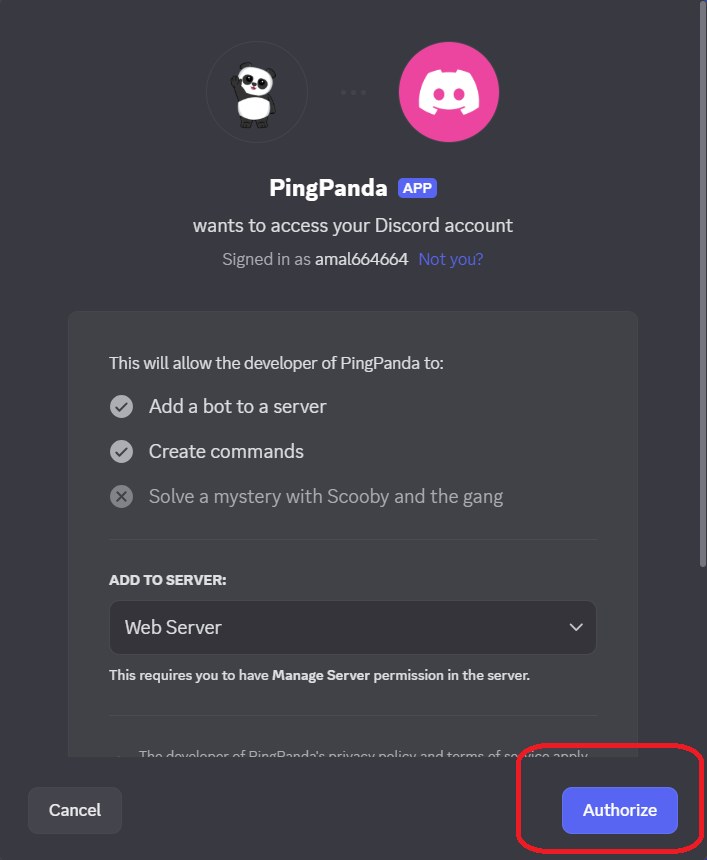
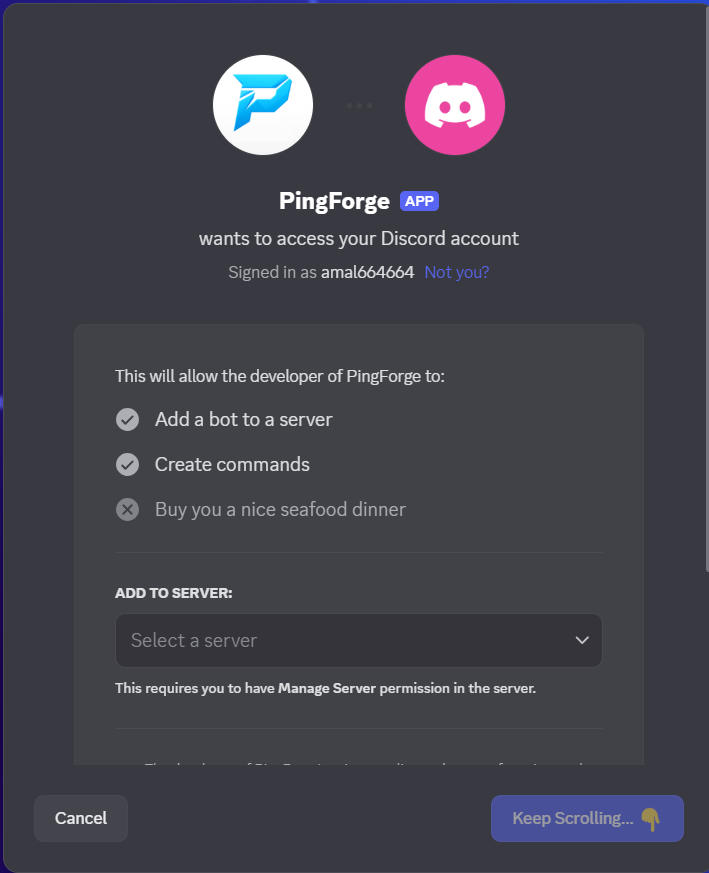
Name change

diff --git a/src/app/(landing)/page.tsx b/src/app/(landing)/page.tsx
@@ -30,7 +30,7 @@ const Page = () => {
                             </Heading>
                         </div>
                         <p className="text-base/7 text-gray-600 max-w-prose text-center text-pretty">
-                            Ping Panda is the easiest way to monitor your SaaS.
+                            Ping Forge is the easiest way to monitor your SaaS.
                             Get instant notifications for{" "}
                             <span className="font-semibold text-gray-700">
                                 sales, new users, or any other event
@@ -73,9 +73,9 @@ const Page = () => {
                             <MockDiscordUi>
                                 <AnimatedList>
                                     <DiscordMessage
-                                        avatarAlt="Ping Panda Avatar"
-                                        avatarSrc="/brand-asset-profile-picture.png"
-                                        userName="Ping Panda"
+                                        avatarAlt="Ping Forge Avatar"
+                                        avatarSrc="/brand-logo.png"
+                                        userName="Ping Forge"
                                         timeStamp="Today at 10:52PM"
                                         badgeText="Revenue"
                                         badgeColor="#faa61a"
@@ -87,9 +87,9 @@ const Page = () => {
                                         }}
                                     />
                                     <DiscordMessage
-                                        avatarAlt="Ping Panda Avatar"
-                                        avatarSrc="/brand-asset-profile-picture.png"
-                                        userName="Ping Panda"
+                                        avatarAlt="Ping Forge Avatar"
+                                        avatarSrc="/brand-logo.png"
+                                        userName="Ping Forge"
                                         timeStamp="Today at 12:06PM"
                                         badgeText="Milestone"
                                         badgeColor="#5865f2"
@@ -100,9 +100,9 @@ const Page = () => {
                                         }}
                                     />
                                     <DiscordMessage
-                                        avatarAlt="Ping Panda Avatar"
-                                        avatarSrc="/brand-asset-profile-picture.png"
-                                        userName="Ping Panda"
+                                        avatarAlt="Ping Forge Avatar"
+                                        avatarSrc="/brand-logo.png"
+                                        userName="Ping Forge"
                                         timeStamp="Today at 12:35PM"
                                         badgeText="SignUp"
                                         badgeColor="#43b581"
@@ -169,7 +169,7 @@ const Page = () => {
                                     </p>
                                     <p className="mt-2 max-w-lg text-sm/6 text-gray-600 max-lg:text-center">
                                         From new user signups to successful
-                                        payments, PingPanda notifies you for all
+                                        payments, PingForge notifies you for all
                                         critical events in your SaaS.
                                     </p>
                                 </div>
@@ -226,7 +226,7 @@ const Page = () => {
                                         Easy Integration
                                     </p>
                                     <p className="mt-2 max-w-lg text-sm/6 text-gray-600 max-lg:text-center">
-                                        Connect PingPanda with your existing
+                                        Connect PingForge with your existing
                                         workflows in minutes and call our
                                         intuitive logging API from any language.
                                     </p>
@@ -237,7 +237,7 @@ const Page = () => {
                                         <div className="flex bg-gray-800/40 ring-1 ring-white/5">
                                             <div className="-mb-px flex text-sm/6 font-medium text-gray-400">
                                                 <div className="border-b border-r border-b-white/20 border-r-white/10 bg-white/5 px-4 py-2 text-white">
-                                                    pingpanda.js
+                                                    pingForge.js
                                                 </div>
                                             </div>
                                         </div>
@@ -307,7 +307,7 @@ const Page = () => {
                                 <Star className="size-5 text-brand-600 fill-brand-600" />
                             </div>
                             <p className="text-base sm:text-lg lg:text-lg/8 font-medium tracking-tight text-brand-950 text-center lg:text-left text-pretty">
-                                PingPanda has been a game-changer for me. I've
+                                PingForge has been a game-changer for me. I've
                                 been using it for two months now and seeing
                                 sales pop up in real-time is super satisfying.
                             </p>
@@ -341,7 +341,7 @@ const Page = () => {
                                 <Star className="size-5 text-brand-600 fill-brand-600" />
                             </div>
                             <p className="text-base sm:text-lg lg:text-lg/8 font-medium tracking-tight text-brand-950 text-center lg:text-left text-pretty">
-                                PingPanda's been paying off for our SaaS. Nice
+                                PingForge's been paying off for our SaaS. Nice
                                 to have simple way to see how we're doing
                                 day-to-day. Definitely makes our lives easier.
                             </p>

diff --git a/src/components/MockDiscordUi.tsx b/src/components/MockDiscordUi.tsx
@@ -70,13 +70,13 @@ const MockDiscordUi = ({ children }: PropsWithChildren) => {
                         </h3>
                         <div className="flex items-center px-2 py-1.5 rounded bg-[#393c43] text-white cursor-pointer">
                             <Image
-                                src="/brand-asset-profile-picture.png"
-                                alt="Ping Panda avatar"
+                                src="/brand-logo.png"
+                                alt="Ping Forge avatar"
                                 width={32}
                                 height={32}
                                 className="object-cover rounded-full mr-3"
                             />
-                            <span className="font-medium">Ping Panda</span>
+                            <span className="font-medium">PingForge</span>
                         </div>
                         <div className="my-1 space-y-px">
                             {[...Array(4)].map((_, i) => (
@@ -121,8 +121,8 @@ const MockDiscordUi = ({ children }: PropsWithChildren) => {
                     <div className="flex items-center ">
                         <div className="relative">
                             <Image
-                                src="/brand-asset-profile-picture.png"
-                                alt="Ping Panda avatar"
+                                src="/brand-logo.png"
+                                alt="PingForge avatar"
                                 width={40}
                                 height={40}
                                 className="object-cover rounded-full mr-3"
@@ -130,7 +130,7 @@ const MockDiscordUi = ({ children }: PropsWithChildren) => {
                             <div className="absolute bottom-0 right-3 size-3 bg-green-500 rounded-full border-2 border-[#36393f]" />
                         </div>
 
-                        <p className="font-semibold text-white">Ping Panda</p>
+                        <p className="font-semibold text-white">PingForge</p>
                     </div>
 
                     <div className="ml-auto flex items-center space-x-4 text-[#b9bbbe] ">
@@ -157,7 +157,7 @@ const MockDiscordUi = ({ children }: PropsWithChildren) => {
                         <input
                             type="text"
                             readOnly
-                            placeholder="Message @Ping Panda"
+                            placeholder="Message @PingForge"
                             className="flex-1 bg-transparent py-2.5 px-1 text-white placeholder-[#72767d] focus:outline-none cursor-not-allowed"
                         />
                         <div className="flex items-center space-x-3 mx-3 text-[#b9bbbe]">

diff --git a/src/app/dashboard/layout.tsx b/src/app/dashboard/layout.tsx
@@ -70,7 +70,7 @@ const Sidebar = ({ onClose }: { onClose?: () => void }) => {
         <div className="space-y-4 md:space-y-6 relative z-20 flex flex-col h-full">
             {/* logo */}
             <p className="hidden sm:block text-lg/7 font-semibold text-brand-900">
-                Ping<span className="text-brand-700">Panda</span>
+                Ping<span className="text-brand-700">Forge</span>
             </p>
 
             {/* navigation items */}
@@ -134,7 +134,7 @@ const Layout = ({ children }: PropsWithChildren) => {
                 {/* mobile header */}
                 <div className="md:hidden flex items-center justify-between p-4 border-b border-gray-200">
                     <p className="text-lg/7 font-semibold text-brand-900">
-                        Ping<span className="text-brand-700">Panda</span>
+                        Ping<span className="text-brand-700">Forge</span>
                     </p>
                     <button
                         onClick={() => setIsDrawerOpen(true)}
@@ -160,7 +160,7 @@ const Layout = ({ children }: PropsWithChildren) => {
                 >
                     <div className="flex justify-between items-center mb-4">
                         <p className="text-lg/7 font-semibold text-brand-900">
-                            Ping<span className="text-brand-700">Panda</span>
+                            Ping<span className="text-brand-700">Forge</span>
                         </p>
                         <button
                             aria-label="Close modal"

diff --git a/src/app/(landing)/pricing/page.tsx b/src/app/(landing)/pricing/page.tsx
@@ -42,7 +42,7 @@ const Page = () => {
                     </Heading>
                     <p className="mt-6 text-base/7 text-gray-600 max-w-prose text-center text-pretty">
                         We hate subscriptions. And chances are, you do too.
-                        That's why we offer lifetime access to PingPanda for a
+                        That's why we offer lifetime access to PingForge for a
                         one-time payment.
                     </p>
                 </div>
@@ -54,7 +54,7 @@ const Page = () => {
                         </h3>
 
                         <p className="mt-6 text-base/7 text-gray-600">
-                            Invest once in PingPanda and transform how you
+                            Invest once in PingForge and transform how you
                             monitor your SaaS forever. Get instant alerts, track
                             critical metrics and never miss a beat in your
                             business growth.
@@ -95,7 +95,7 @@ const Page = () => {
                                     onClick={handleGetAccess}
                                     className="mt-6 px-20"
                                 >
-                                    Get PingPanda
+                                    Get PingForge
                                 </Button>
                                 <p className="mt-6 text-xs leading-5 text-gray-600">
                                     Secure payment. Start monitoring in minutes.

diff --git a/src/app/dashboard/(settings)/account-settings/SettingsPageContent.tsx b/src/app/dashboard/(settings)/account-settings/SettingsPageContent.tsx
@@ -32,13 +32,13 @@ const AccountSettings = ({
                     setShowModal={setShowTip}
                 >
                     <h2 className="text-xl/8 font-medium tracking-tight text-gray-900">
-                        Ping<span className="text-blue-700">Panda</span>
+                        Ping<span className="text-blue-700">Forge</span>
                     </h2>
                     <div className="flex justify-center items-start gap-6">
                         <Info className="size-10 mt-2" />{" "}
                         <p className="text-sm/6 text-gray-600 max-w-prose mt-2 mb-8">
                             Discord notifications can be only received after
-                            adding our Ping Panda App to one of your own server
+                            adding our PingForge App to one of your own server
                             or by joining our server
                         </p>
                     </div>
@@ -98,7 +98,7 @@ const AccountSettings = ({
                                         target="_blank"
                                         href="https://discord.com/oauth2/authorize?client_id=1381237286859051079&permissions=0&integration_type=0&scope=bot"
                                     >
-                                        Add Ping Panda App
+                                        Add PingForge App
                                     </Link>
                                 </Button>
                             </div>

diff --git a/src/app/dashboard/(help)/api-doc/ApiDocs.tsx b/src/app/dashboard/(help)/api-doc/ApiDocs.tsx
@@ -300,7 +300,7 @@ const ApiDocs = () => {
                 <p className="text-xs/6 text-brand-700">
                     <Link
                         target="_blank"
-                        href="https://support.discord.com/hc/en-us/articles/210298617-Markdown-Text-101-Chat-Formatting-Bold-Italic-Underline?utm_source=pingpanda.com"
+                        href="https://support.discord.com/hc/en-us/articles/210298617-Markdown-Text-101-Chat-Formatting-Bold-Italic-Underline?utm_source=pingforge.com"
                     >
                         Visit Discord page for more knowledge
                     </Link>

diff --git a/src/app/dashboard/(account)/upgrade/UpgradePageContent.tsx b/src/app/dashboard/(account)/upgrade/UpgradePageContent.tsx
@@ -34,7 +34,7 @@ const UpgradePageContent = ({ plan }: { plan: Plan }) => {
                 </h1>
                 <p className="text-sm/6 text-gray-600 max-w-prose">
                     {plan === "PRO"
-                        ? "Thank you for your supporting PingPanda. Find your increased usage limits below."
+                        ? "Thank you for your supporting PingForge. Find your increased usage limits below."
                         : "Get access to more events, categories and premium support."}
                 </p>
             </div>

diff --git a/src/components/PaymentSuccessModal.tsx b/src/components/PaymentSuccessModal.tsx
@@ -64,7 +64,7 @@ const PaymentSuccessModal = () => {
                             </p>
                             <p className="text-gray-600 text-sm/6 text-pretty">
                                 Thank you for upgrading to Pro and supporting
-                                PingPanda. Your account has been upgraded.
+                                PingForge. Your account has been upgraded.
                             </p>
                         </div>
                         <div className="mt-8 w-full">

diff --git a/src/components/Navbar.tsx b/src/components/Navbar.tsx
@@ -12,7 +12,7 @@ const Navbar = async () => {
             <MaxWidthWrapper>
                 <div className="flex h-16 items-center justify-between">
                     <Link href={"/"} className="flex z-40 font-semibold">
-                        Ping <span className="text-blue-700">Panda</span>
+                        Ping <span className="text-blue-700">Forge</span>
                     </Link>
                     <div className="h-full flex items-center space-x-4">
                         {user ? (

diff --git a/src/components/TutorialComp.tsx b/src/components/TutorialComp.tsx
@@ -41,7 +41,7 @@ const TutorialComp = () => {
                         {tutoState + 1}
                     </div>
                     <h2 className="text-xl/8 font-medium tracking-tight text-gray-900">
-                        Ping<span className="text-blue-700">Panda</span>
+                        Ping<span className="text-blue-700">Forge</span>
                     </h2>
                     <p className="text-sm/6 text-gray-600 max-w-prose mt-2 mb-8">
                         Quick Help
